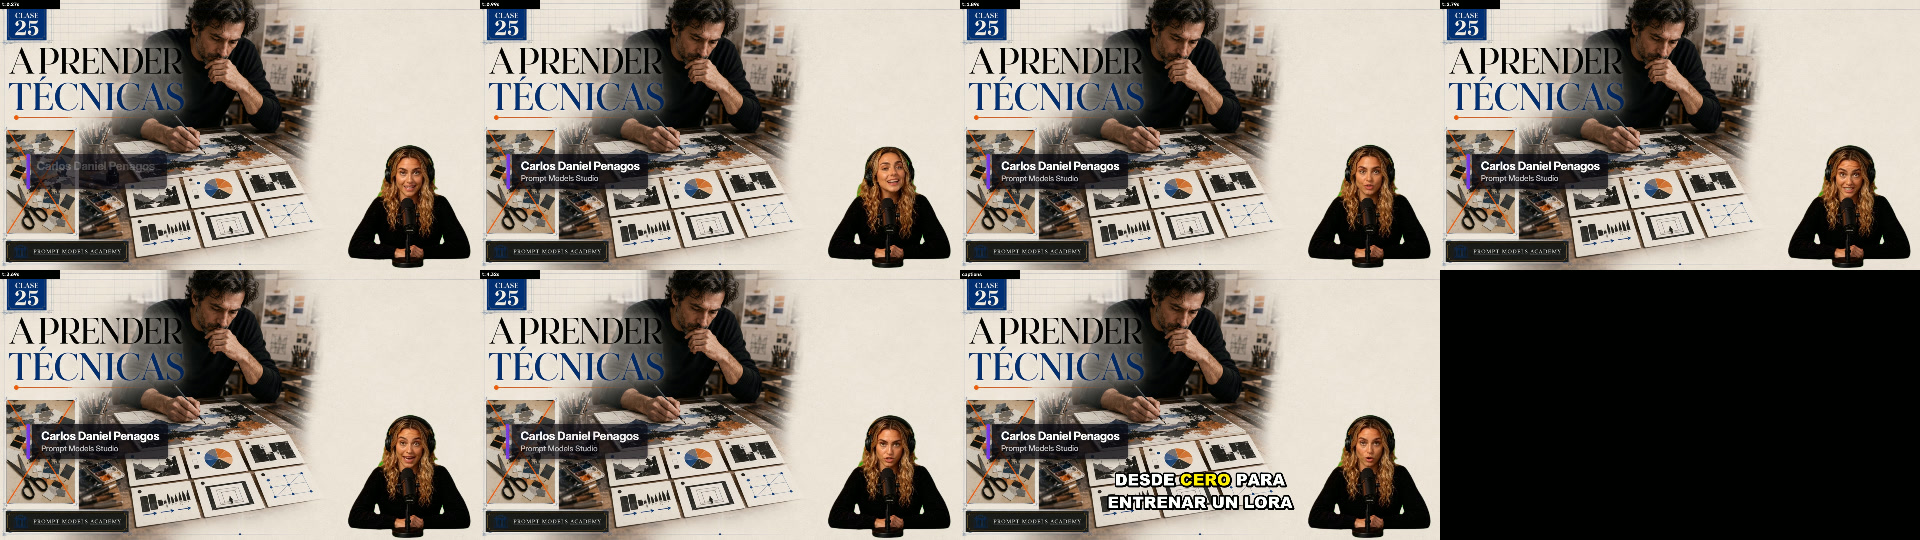
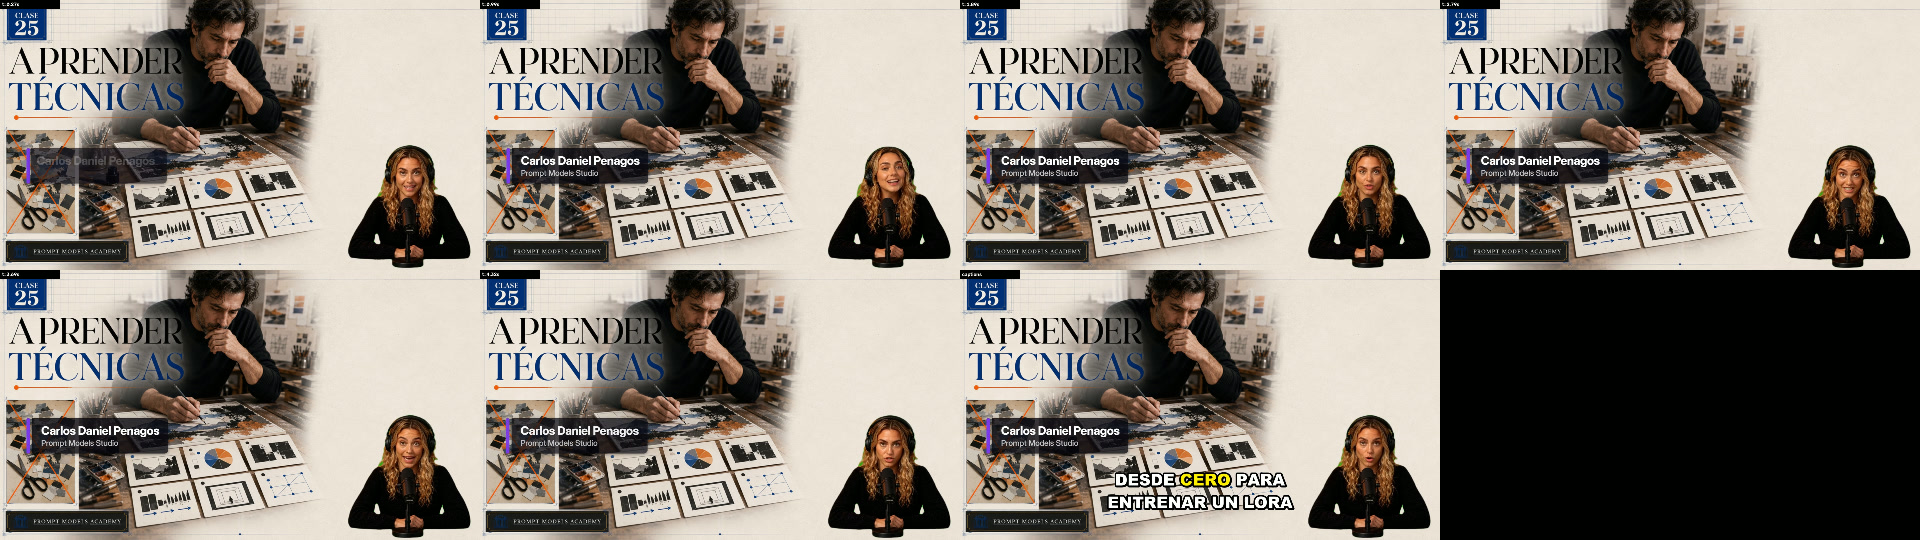
fix(hyperframes): margen real del lower third, capa HF en el CI y test de defaults (D51.1)
Ronda 1 de K sobre el PR #41:
- lower third: contenido al 68% y sombra acortada (<70% medido por alfa:
  68.6% v / 69.1% h); version 1.0.1 porque solo la version invalida cache;
  gemelo regenerado y sheets del lower_third rehechos.
- ci/pytest-light.txt: entran los 10 archivos HyperFrames con dobles
  (runner: 44 -> 54 archivos; hf_real sigue manual por D50.4).
- test nuevo: defaults de data-composition-variables == fallback CSS de
  :root en las cinco plantillas, mensaje nombra plantilla y color.

Suite 2833 -> 2838. 12 hf_real re-corridos verdes.

diff --git a/motion/lower_third/horizontal/index.html b/motion/lower_third/horizontal/index.html
@@ -37,12 +37,14 @@
       }
       #root { position: relative; overflow: hidden; font-family: "Inter", sans-serif; }
       .clip { position: absolute; inset: 0; }
-      /* El borde INFERIOR de la banda queda en el 70% de la altura: por ENCIMA de la
-         zona de captions (70-92% medida en HF-2), nunca dentro ni debajo de ella. */
+      /* El borde INFERIOR del contenido queda en el 68% de la altura y la sombra por
+         encima del 70%: margen real contra la zona de captions (70-92% medida en HF-2
+         con el estilo default; avoid_faces o posiciones alternas la MUEVEN, asi que el
+         margen tiene que sobrevivir a ese caso, no rozarlo). */
       #lt {
         position: absolute;
         left: 5.5%;
-        bottom: 30%;
+        bottom: 32%;
         display: flex;
         align-items: stretch;
         max-width: 82%;
@@ -59,7 +61,7 @@
         border-radius: 0 calc(var(--u) * 1.4) calc(var(--u) * 1.4) 0;
         padding: calc(var(--u) * 2) calc(var(--u) * 3.2);
         margin-left: calc(var(--u) * 0.9);
-        box-shadow: 0 calc(var(--u) * 0.5) calc(var(--u) * 2) var(--sombra);
+        box-shadow: 0 calc(var(--u) * 0.3) calc(var(--u) * 1.2) var(--sombra);
       }
       #nombre {
         color: var(--texto);

diff --git a/motion/lower_third/index.html b/motion/lower_third/index.html
@@ -37,12 +37,14 @@
       }
       #root { position: relative; overflow: hidden; font-family: "Inter", sans-serif; }
       .clip { position: absolute; inset: 0; }
-      /* El borde INFERIOR de la banda queda en el 70% de la altura: por ENCIMA de la
-         zona de captions (70-92% medida en HF-2), nunca dentro ni debajo de ella. */
+      /* El borde INFERIOR del contenido queda en el 68% de la altura y la sombra por
+         encima del 70%: margen real contra la zona de captions (70-92% medida en HF-2
+         con el estilo default; avoid_faces o posiciones alternas la MUEVEN, asi que el
+         margen tiene que sobrevivir a ese caso, no rozarlo). */
       #lt {
         position: absolute;
         left: 5.5%;
-        bottom: 30%;
+        bottom: 32%;
         display: flex;
         align-items: stretch;
         max-width: 82%;
@@ -59,7 +61,7 @@
         border-radius: 0 calc(var(--u) * 1.4) calc(var(--u) * 1.4) 0;
         padding: calc(var(--u) * 2) calc(var(--u) * 3.2);
         margin-left: calc(var(--u) * 0.9);
-        box-shadow: 0 calc(var(--u) * 0.5) calc(var(--u) * 2) var(--sombra);
+        box-shadow: 0 calc(var(--u) * 0.3) calc(var(--u) * 1.2) var(--sombra);
       }
       #nombre {
         color: var(--texto);

diff --git a/tests/test_hf2_catalogo.py b/tests/test_hf2_catalogo.py
@@ -111,6 +111,34 @@ def test_sin_em_dashes_en_catalogo_ejemplos_y_plantillas():
     assert not con_em_dash, f"em dashes prohibidos por el brief en: {con_em_dash}"
 
 
+# Variable del contrato -> custom property CSS que actua de fallback en :root.
+COLORES_MARCA = {
+    "marca_primario": "--primario",
+    "marca_secundario": "--secundario",
+    "marca_texto": "--texto",
+}
+
+
+@pytest.mark.parametrize("nombre", sorted(PIEZAS_ESPERADAS))
+def test_defaults_de_color_css_y_variables_coinciden(nombre):
+    """El default declarado y el fallback CSS viven duplicados a proposito (el JS
+    siempre pisa el CSS); este test impide que un rebrand los deje divergir en silencio."""
+    plantilla = next(p for p in _plantillas() if p.nombre == nombre)
+    html = (RAIZ / plantilla.proyecto / "index.html").read_text(encoding="utf-8")
+    crudo = re.search(r"data-composition-variables='(\[.*?\])'", html, re.DOTALL)
+    assert crudo, f"{nombre}: el proyecto no declara data-composition-variables"
+    declarados = {v["id"]: v["default"] for v in json.loads(crudo.group(1))}
+    raiz_css = re.search(r":root\s*\{(.*?)\}", html, re.DOTALL)
+    assert raiz_css, f"{nombre}: falta el bloque :root con los fallbacks"
+    for var_id, css_var in COLORES_MARCA.items():
+        fallback = re.search(rf"{css_var}:\s*(#[0-9A-Fa-f]{{6}})", raiz_css.group(1))
+        assert fallback, f"{nombre}: falta el fallback CSS de {css_var} en :root"
+        assert fallback.group(1).upper() == str(declarados[var_id]).upper(), (
+            f"{nombre}: {var_id} divergio entre el default declarado "
+            f"({declarados[var_id]}) y el fallback CSS ({fallback.group(1)})"
+        )
+
+
 def gemelo_horizontal(texto: str) -> str:
     """Deriva el gemelo 16:9 del primario 9:16: tres reemplazos y NADA mas.
 

diff --git a/revision/pre-hyperframes/smoke_h4_docs.py b/revision/pre-hyperframes/smoke_h4_docs.py
@@ -68,7 +68,8 @@ FORBIDDEN_FIGURES = [
 # 2026-08-03: 2410 -> 2502 (D45 SRT +76, D46 procedencia +16).
 # 2026-08-03: 2502 -> 2801 (S39 +36, S40 +23, S41 +57, D50 HF-1 contrato de piezas +183).
 # 2026-08-03: 2801 -> 2833 (D51 HF-2 catalogo de plantillas +32).
-BASELINE_SUITE = "2833 passed"
+# 2026-08-03: 2833 -> 2838 (D51.1 test de defaults de color +5).
+BASELINE_SUITE = "2838 passed"
 BASELINE_SKIPS = "4 skipped"
 H3_PENDING_MARKERS = ["PENDIENTE MERGE", "H3 pendiente", "H3 no iniciad", "H3 sin iniciar"]
 NVENC_OPEN_RX = re.compile(r"NVENC[^\n]{0,80}(PR abierto|abierto y no mergeado)", re.IGNORECASE)

diff --git a/DECISIONES.md b/DECISIONES.md
@@ -2207,7 +2207,7 @@ paquete `hyperframes/` intacto (cero cambios, sigue huerfano).
 | pieza | slots | duracion natural | zona (alfa medido, con sombra) |
 |---|---|---|---|
 | hook | kicker, titulo | 2500 ms | y 20-45% centrado |
-| lower_third | nombre, rol | 4500 ms | borde inferior en 70%, x desde 5.5% |
+| lower_third | nombre, rol | 4500 ms | contenido hasta 68%, sombra hasta ~69%, x desde 5.5% |
 | titulo_seccion | titulo | 2000 ms | y 24-39% centrado |
 | dato_destacado | cifra, etiqueta | 3000 ms | y 22-41% centrado |
 | cierre | titulo, cta | 3500 ms | y 25-40% centrado |
@@ -2216,9 +2216,11 @@ paquete `hyperframes/` intacto (cero cambios, sigue huerfano).
    video de color solido en ambos tamanos y se midio el bounding box por diff de pixeles a lo
    largo del render entero (picos de animacion incluidos): vertical 80.2-89.9% de la altura,
    horizontal 72.5-89.9%. La zona prohibida de diseno quedo en 70-92% con margen, y el lower
-   third cierra su CONTENIDO en el 70.0% exacto (su sombra suave llega a ~72%, todavia por
-   encima del 72.5% real). Los frames con captions de los contact sheets confirman que ninguna
-   pieza se pelea con los subtitulos.
+   third cierra su CONTENIDO en el 68.0% con la sombra por encima del 70% (medido por alfa:
+   sombra hasta 68.6% vertical y 69.1% horizontal). OJO: la banda medida corresponde al
+   ESTILO DEFAULT; con `avoid_faces` o posiciones alternas la banda de captions SE MUEVE,
+   asi que el margen tiene que sobrevivir a ese caso, no rozar el limite. Los frames con
+   captions de los contact sheets confirman que ninguna pieza se pelea con los subtitulos.
 2. **Colores de marca por variables; dos estructurales fijos y declarados.** `marca_primario`,
    `marca_secundario` y `marca_texto` entran como CSS custom properties. Los unicos colores
    fijos son estructurales de legibilidad sobre screencast claro u oscuro: la placa
@@ -2276,3 +2278,29 @@ de 7 frames (6 repartidos por la duracion + 1 con captions ASS encima) compuesto
 real de `input/` (tacosjuan 9:16 y clase25 16:9, fondo oscuro y claro), mirados uno por uno.
 La posicion de cada pieza se midio ademas por bounding box del canal alfa: los bloques
 centrados quedan al 50.0% exacto y ninguno invade la banda de captions.
+
+### Addendum D51.1 - Margen real del lower third, HyperFrames en el CI y test de defaults
+
+Tres correcciones de la primera ronda de revision de K sobre el PR #41. Ninguna toca
+`hyperframes/` ni el pipeline.
+
+1. **Margen del lower third.** Cerraba contenido en 70.0% con sombra hasta ~72%, contra una
+   banda que en horizontal empieza en 72.5%: cinco pixeles no son margen, y la banda del
+   estilo default SE MUEVE con `avoid_faces` o posiciones alternas. El contenido sube al 68%
+   (`bottom: 32%`) y la sombra se acorta (`0.3u/1.2u`): medido por alfa, contenido hasta
+   68.0% y sombra hasta 68.6% (v) / 69.1% (h). La plantilla sube a **version 1.0.1**: la
+   clave de cache NO incluye el contenido del proyecto, asi que la version es lo unico que
+   invalida piezas ya renderizadas con el layout viejo.
+2. **El CI ligero ahora cubre la capa HyperFrames.** El gate remoto de H5 no corria NINGUN
+   test de HF-1 ni HF-2, asi que su verde no probaba esa capa. Entran al manifiesto los 10
+   archivos que usan dobles y no requieren HyperFrames instalado (los 9 de HF-1 +
+   test_hf2_catalogo). Runner real de Actions: **1303 -> 1523 tests** (44 -> 54 archivos),
+   cero skips, red bloqueada. `hf_real` queda FUERA y sigue siendo obligatorio a mano
+   (D50.4).
+3. **Test de defaults de color.** Los colores de marca viven duplicados a proposito en cada
+   plantilla (default declarado + fallback CSS de `:root`; el JS siempre pisa el CSS). No se
+   deduplican: un test nuevo exige que coincidan en las cinco plantillas y su mensaje nombra
+   la plantilla y el color que divergio. Verificado en rojo inyectando una divergencia.
+
+Suite `2833 -> 2838` (+5). Los 12 `hf_real` re-corridos a mano tras el cambio de layout;
+los dos contact sheets del lower_third regenerados y mirados.

diff --git a/revision/pre-hyperframes/H5_TEST_MATRIX.md b/revision/pre-hyperframes/H5_TEST_MATRIX.md
@@ -5,8 +5,12 @@ venv **limpio** Python 3.12 (solo `requirements-ci.txt`) con la **red bloqueada*
 y, para simular el runner Ubuntu, con **PATH saneado sin FFmpeg ni Node**. Un archivo entra al gate
 (`INCLUIR`) solo si corre **completo, verde y con cero skips** en esas condiciones.
 
-- Suite total del repo: `2410 passed, 4 skipped`.
-- Subconjunto CI: **44 archivos**, **1302 tests**, **0 skips**, sin red/FFmpeg/GPU/modelos/Node.
+- Suite total del repo (al cierre de H5): `2410 passed, 4 skipped`.
+- Subconjunto CI: **54 archivos**, **1523 tests** (runner real de Actions), **0 skips**, sin
+  red/FFmpeg/GPU/modelos/Node. (Antes de D51.1 eran 44 archivos / 1303 tests, que al cierre
+  de H5 eran 1302: los mismos 44 archivos ganaron un test despues. El 2026-08-03, con D51.1,
+  entraron los 10 archivos de HyperFrames con dobles: el CI verde de HF-1 y HF-2 no probaba
+  esa capa hasta entonces. `hf_real` sigue FUERA y es manual por D50.4.)
 - Manifiesto: `ci/pytest-light.txt` · Runner: `ci/run_pytest_light.py`.
 - Portabilidad confirmada por la **ejecución real en Ubuntu** (GitHub Actions), no solo por el
   sondeo Windows: se excluyó `test_studio_srt_runtime` tras fallar en Linux por semántica de
@@ -31,6 +35,7 @@ producción para volver portable ningún test.
 | Procedencia / resume / checkpoints | `test_transcript_provenance`, `test_h2_classic_provenance`, `test_h2_classic_reuse`, `test_h2_paquete_marker` |
 | Arranque / check.bat (contrato) | `test_h3_check_bat` |
 | Contratos puros (CVE / estilos / fx / popups / core / clipper / alpha / paquete) | `test_contrato_core`, `test_contrato_cve`, `test_contrato_styles`, `test_contrato_fx`, `test_contrato_popups`, `test_contrato_clipper`, `test_contrato_alpha`, `test_contrato_paquete_editor`, `test_cve_spans`, `test_cve_avoid_faces`, `test_cve_center`, `test_cve_naming`, `test_cve_presets_json`, `test_estilos`, `test_spans_glow_align`, `test_auto_fx`, `test_depurador`, `test_ui_auto_contract` |
+| HyperFrames por dobles (D50/D51: el CLI real solo lo tocan los `hf_real`, excluidos) | `test_hf_almacen`, `test_hf_capacidad`, `test_hf_contrato`, `test_hf_entorno`, `test_hf_invocador`, `test_hf_lock_rancio`, `test_hf_reservadas`, `test_hf_servicio`, `test_hf_variables`, `test_hf2_catalogo` |
 
 Verificación puntual de la fila TestClient: `test_h1_path_traversal` importa `app` (FastAPI) y usa
 `starlette.testclient.TestClient`; corre **verde con `--disable-socket`**, lo que prueba que NO abre

diff --git a/ESTADO.md b/ESTADO.md
@@ -91,7 +91,7 @@ Merges cerrados en `main` (posteriores a F6 esencial):
 - v1: **CERRADA** y etiquetada `v1.0.0`
 - HyperFrames: bloqueado hasta gate final; **NO iniciado**
 
-**Baseline de suite:** `2833 passed, 4 skipped` (4 skips históricos de symlink en Windows).
+**Baseline de suite:** `2838 passed, 4 skipped` (4 skips históricos de symlink en Windows).
 `ruff`/formato/`check.bat` verdes; gate remoto (Actions) verde; gate de privacidad 0 blockers.
 
 > **ADDENDUM HF-1 (2026-08-03).** Las líneas de arriba que dicen "HyperFrames: NO iniciado"
@@ -157,7 +157,11 @@ Merges cerrados en `main` (posteriores a F6 esencial):
 >   80.2%-89.9% de la altura, horizontal 72.5%-89.9%. Zona prohibida de diseño 70%-92%.
 > - **Verificado a mano (regla D50.4):** 12 tests `hf_real` verdes (los 2 de HF-1 + 10 de
 >   HF-2: canario de influencia por plantilla, ambos tamaños, duración natural y mitad).
-> - **Baseline de suite:** `2801 -> 2833` (+32 de HF-2, sin contar los `hf_real` excluidos).
+> - **Baseline de suite:** `2801 -> 2838` (+37 de HF-2, sin contar los `hf_real` excluidos).
+> - **Ronda 1 de K (D51.1):** lower third sube a contenido 68% / sombra <70% (versión
+>   1.0.1, sheets regenerados); el CI ligero ahora corre los 10 archivos de HyperFrames con
+>   dobles (runner real: 1303 -> 1523 tests, 44 -> 54 archivos; `hf_real` sigue manual);
+>   test nuevo de defaults de color en las cinco plantillas.
 
 > **HISTÓRICO (superado).** El cálculo de avance "88/100" y la suite "1894 passed / 3 skipped" eran
 > métricas previas al hardening y a GPU/NVENC; se conservan en la bitácora como registro. F6

diff --git a/revision/pre-hyperframes/MATRIZ_READINESS.md b/revision/pre-hyperframes/MATRIZ_READINESS.md
@@ -4,8 +4,8 @@ Base actual `3cbac46` (merge PR #29, cierre H4). **H1 CERRADO EN MAIN — merge 
 CERRADO EN MAIN — merge `5779a77`. H3 CERRADO EN MAIN — merge `b59989f`. GPU/NVENC CERRADO EN MAIN —
 merge `cdcea7a`. H4 CERRADO EN MAIN — merge `3cbac46`.** **H5 (CI remoto ligero) en curso en este
 PR, pendiente de merge. HyperFrames no iniciada; gate final pendiente.** Baseline de suite:
-`2833 passed, 4 skipped` (4 skips = los cuatro históricos de symlink; incluye +183 de HF-1
-y +32 de HF-2). Detalle y evidencia en `AUDITORIA.md` / `H1_EVIDENCIA.md` /
+`2838 passed, 4 skipped` (4 skips = los cuatro históricos de symlink; incluye +183 de HF-1
+y +37 de HF-2). Detalle y evidencia en `AUDITORIA.md` / `H1_EVIDENCIA.md` /
 `H2_EVIDENCIA.md` / `H3_EVIDENCIA.md` / `NVENC_EVIDENCIA.md` / `H4_EVIDENCIA.md` / `H5_EVIDENCIA.md`.
 Plan en `PLAN_DE_PR.md`.
 

diff --git a/README.md b/README.md
@@ -39,7 +39,7 @@ y opcionales**.
 
 - Fase: **Alpha pre-HyperFrames**. Endurecimiento H1/H2/H3, GPU/NVENC y H4 (docs) cerrados en
   `main`. H5 (CI remoto ligero) en curso.
-- Baseline de suite de este commit: **2833 passed, 4 skipped** (4 skips históricos de symlink en
+- Baseline de suite de este commit: **2838 passed, 4 skipped** (4 skips históricos de symlink en
   Windows). `ruff`/formato/`check.bat` verdes.
 - Readiness: **0 P0 abiertos · 0 P1 abiertos**. Detalle en
   [`revision/pre-hyperframes/MATRIZ_READINESS.md`](revision/pre-hyperframes/MATRIZ_READINESS.md).
